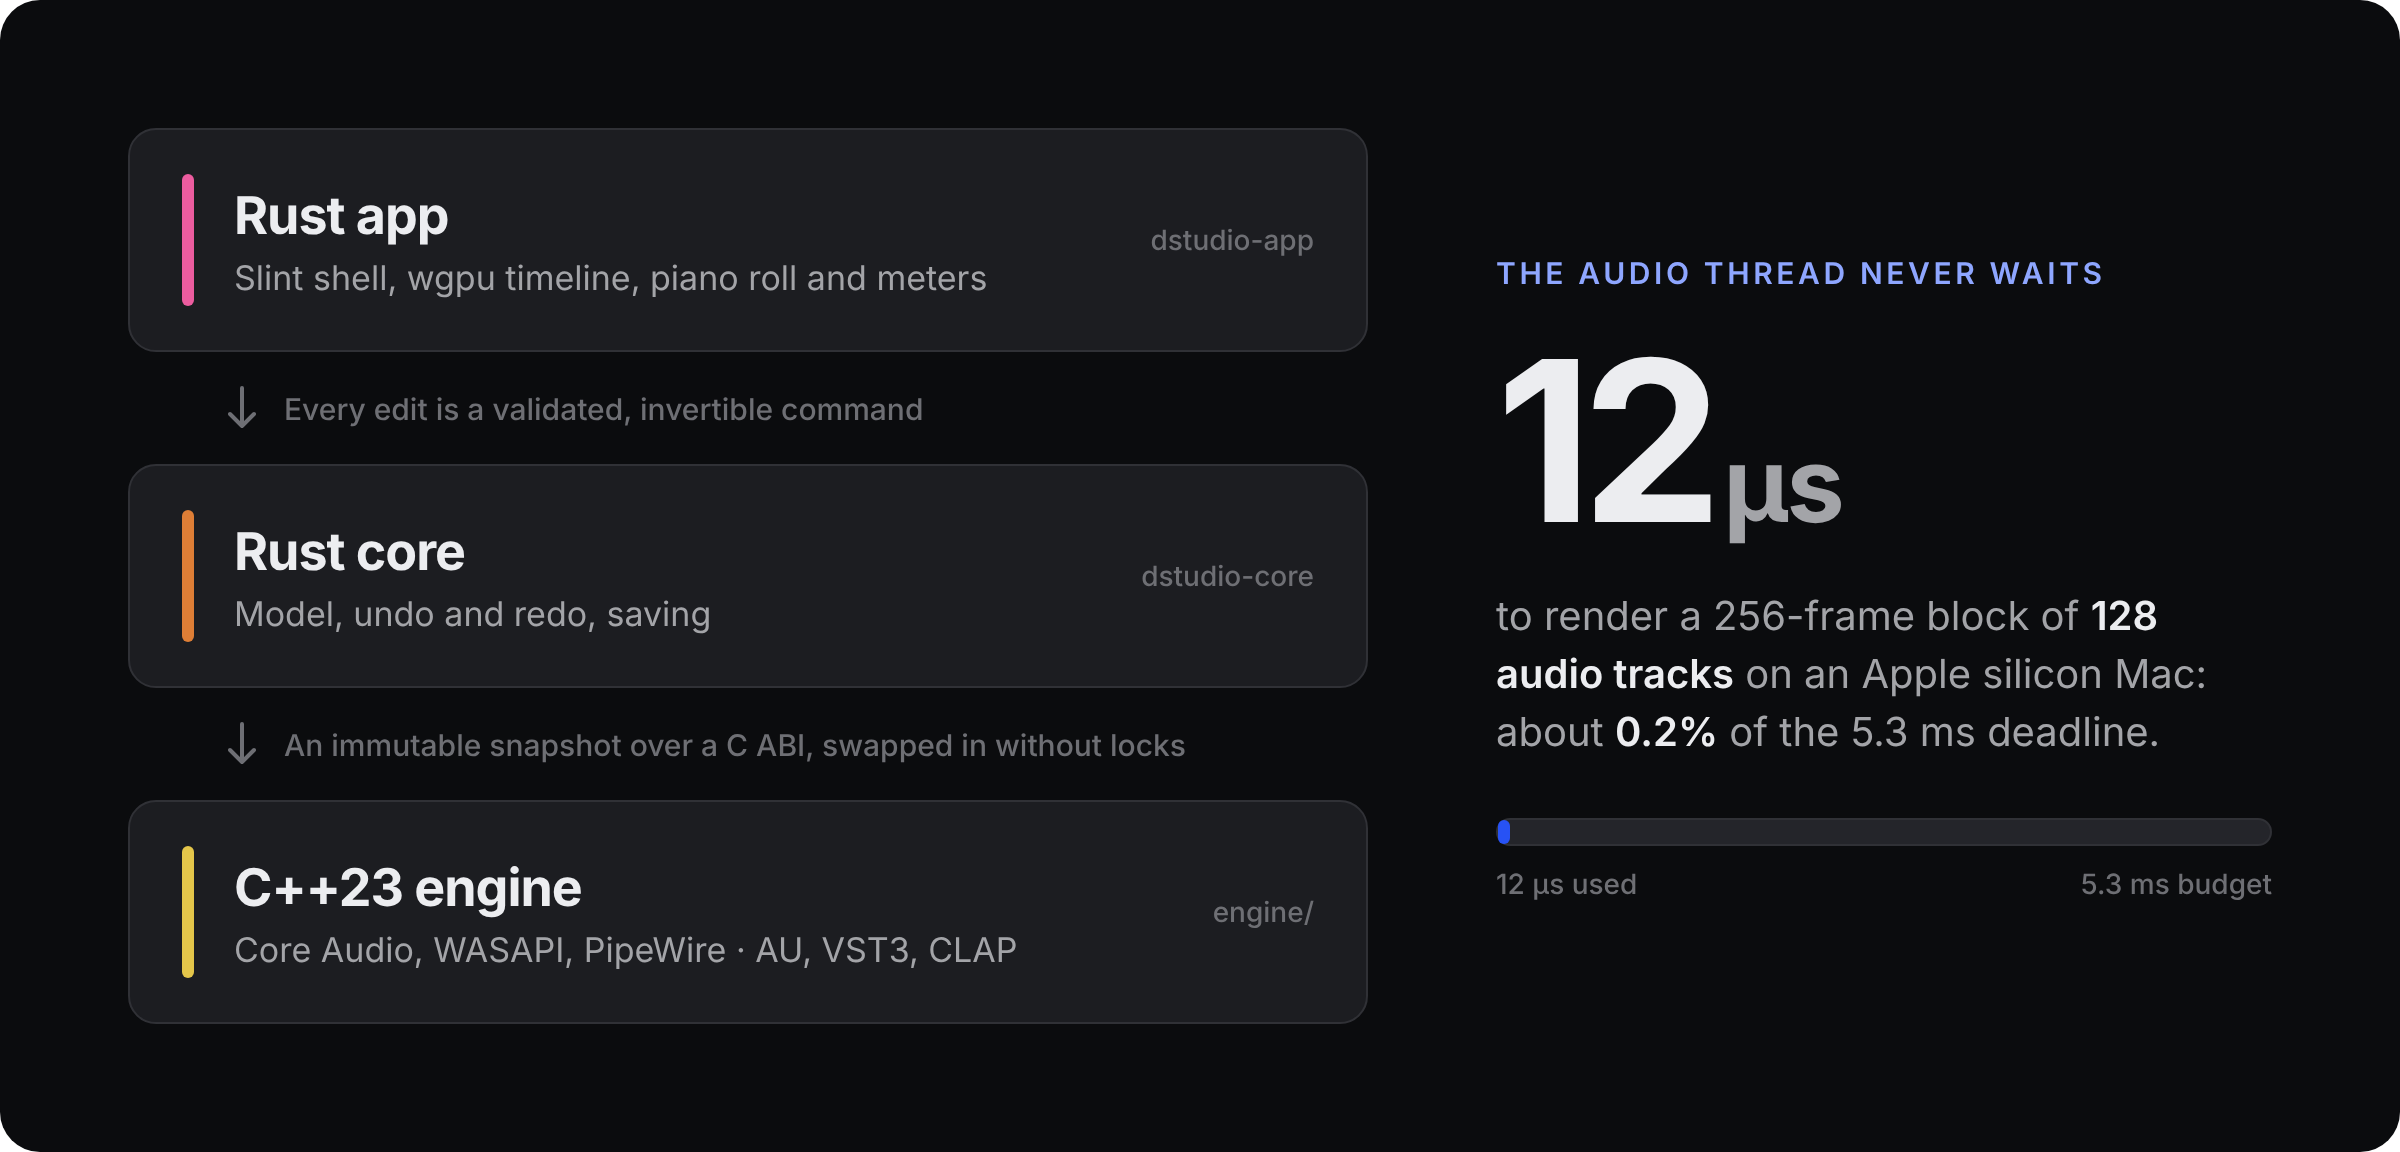
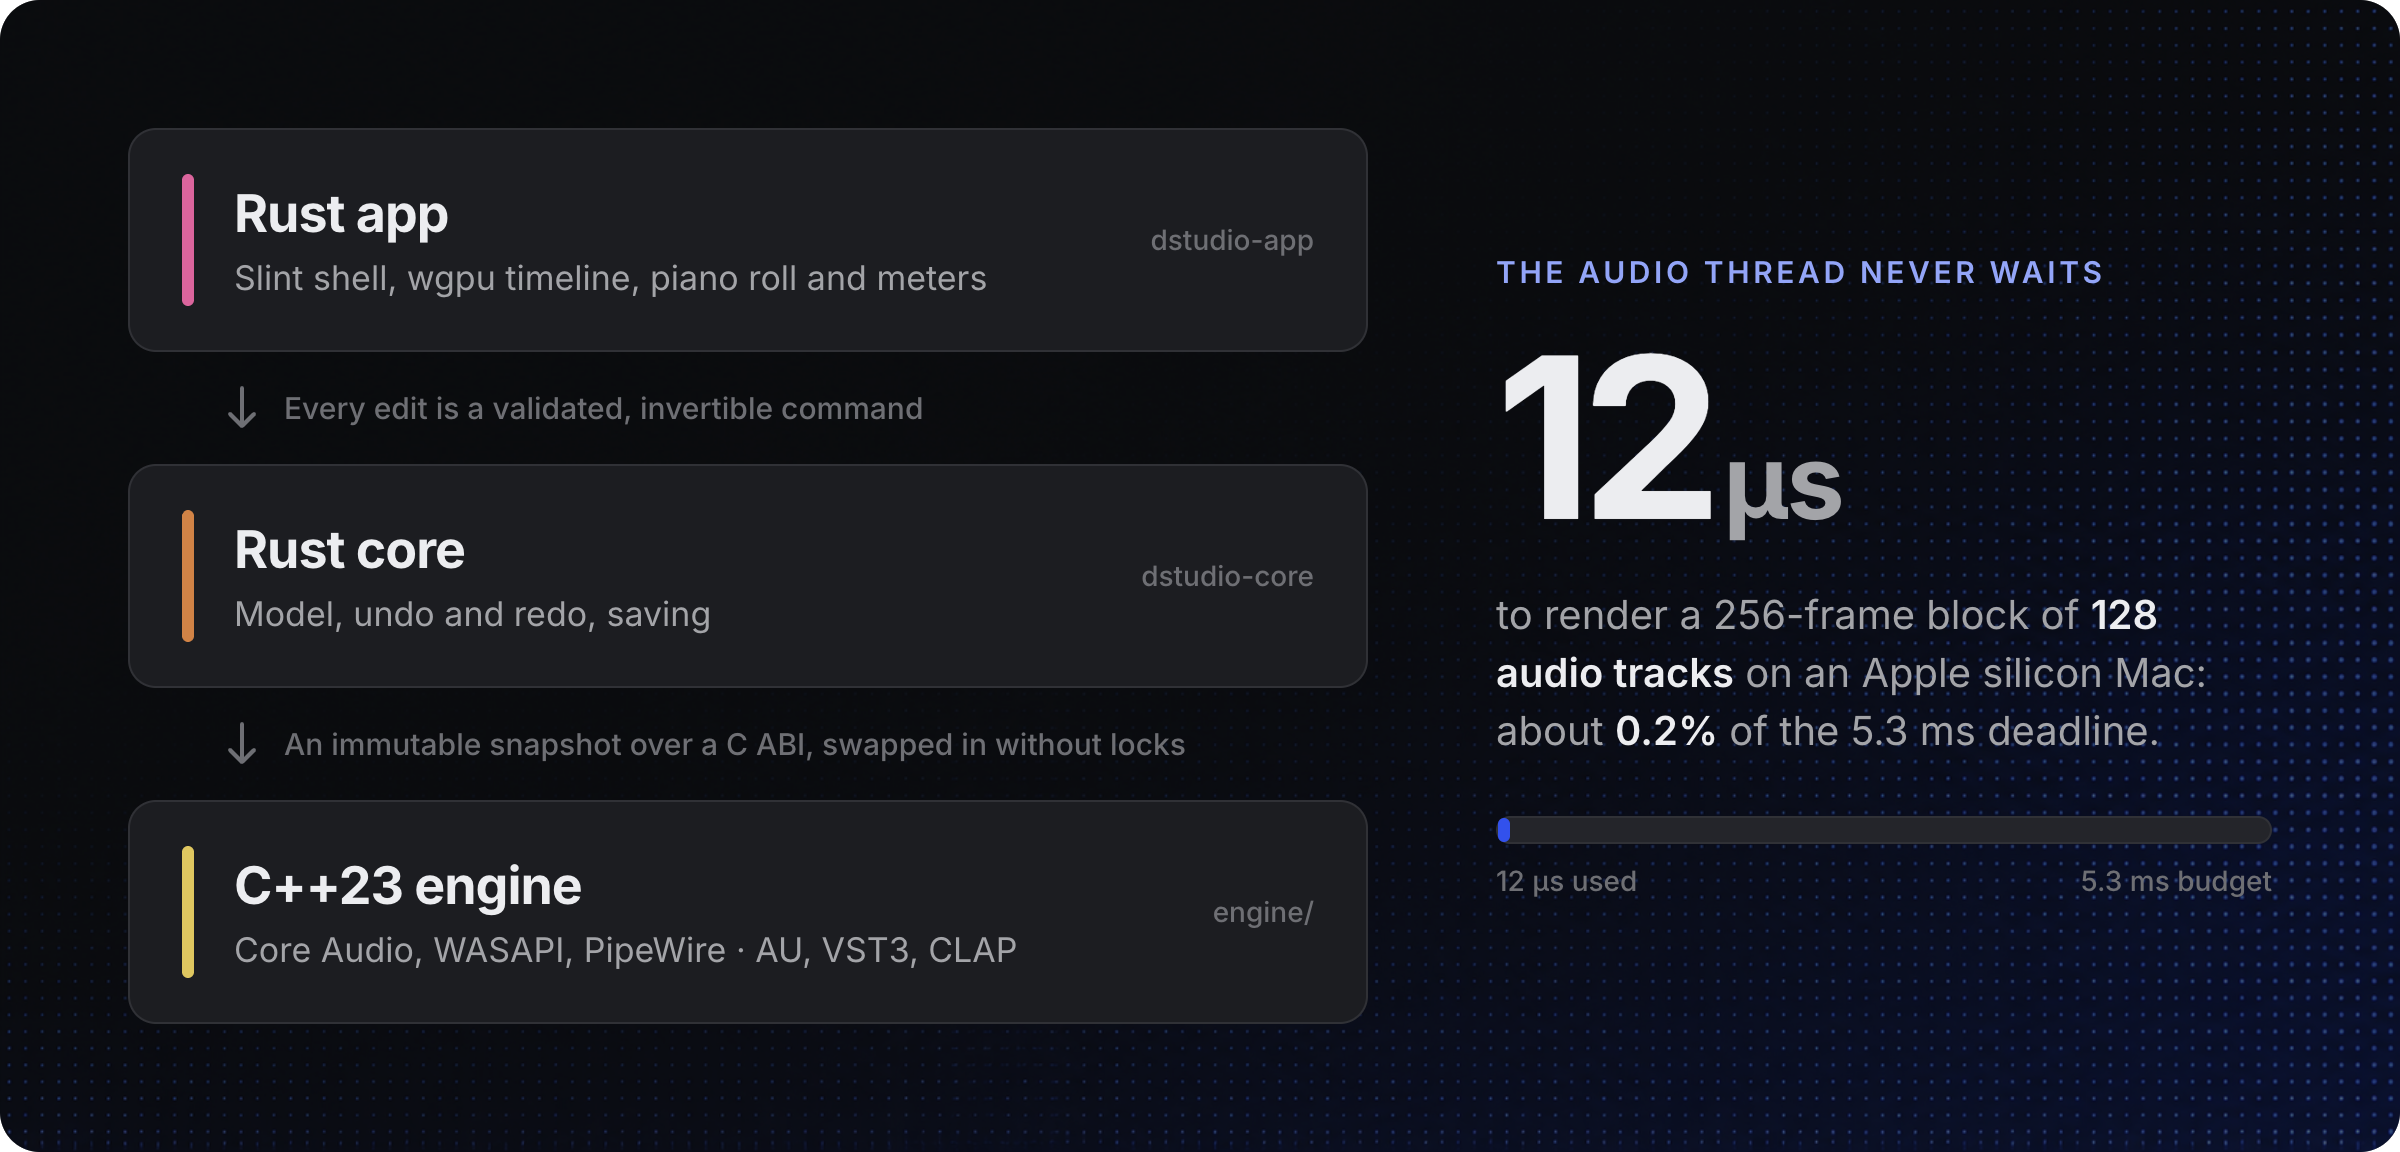
Add Fine Signal texture to public artwork

diff --git a/docs/art/art.css b/docs/art/art.css
@@ -66,3 +66,18 @@ body { font-family: "Inter", system-ui, sans-serif; color: var(--text); -webkit-
 .feature h3 { margin: 0; font-size: 46px; line-height: 1.1; font-weight: 700; letter-spacing: -0.028em; }
 .feature p { margin: 0; max-width: 920px; font-size: 22px; line-height: 1.45; color: var(--text-2); }
 .feature .crop { position: absolute; left: 64px; right: 64px; top: 266px; height: 392px; }
+
+/* Fine Signal: a shared raster material for public artwork. App views stay untouched. */
+.art { isolation: isolate; }
+.art::before {
+  content: "";
+  position: absolute;
+  inset: 0;
+  z-index: -1;
+  background: url("textures/fine-signal.png") right center / cover no-repeat;
+  opacity: 0.85;
+  pointer-events: none;
+}
+.art.feature::before,
+.art.arch::before { opacity: 0.45; }
+.bars { opacity: 0.12; }

diff --git a/docs/art/README.md b/docs/art/README.md
@@ -40,3 +40,13 @@ magick /tmp/automation.png -gravity north -chop 0x88 docs/art/shots/automation.p
 `--zoom 85` makes the interface scale exactly 2, so the layout matches a 1440×820 window. For the other shots, swap the
 `--state` and file names from the table. When a view changes visibly, render its shot again, crop it into
 `docs/art/shots/` the same way and re-run `render.mjs`.
+
+## Fine Signal material
+
+Public artwork uses `textures/fine-signal.png`, the approved fine blue dot treatment, behind
+its headings and frames. `art.css` applies it more quietly to the information-heavy feature and
+architecture panels. This is a marketing texture: the app screenshots in `shots/` are not edited,
+and no desktop interface styles are changed. The original waveform mark is also unchanged.
+
+The texture is a project-specific generated bitmap. Its exact generation prompt is in
+`textures/fine-signal-prompt.txt`. Website AVIF/WebP variants are derived from this same source.

diff --git a/PROGRESS.md b/PROGRESS.md
@@ -583,3 +583,11 @@ see `.github/workflows/ci.yml`). Platform status: `engine/README.md` › Platfor
   so switching keeps delay compensation) and `SE_AUTO_TRIM/WIDTH/MONO` (per sample, replace the strip settings).
   Tests: four engine tests in `test_automation.cpp`, core `switch_lanes_*`, app `automation::tests` (units, picker,
   right-click menus, switches and strip controls following lanes).
+
+### 2026-11-13: Fine Signal public artwork
+
+Applied the selected fine blue dot material to the public README, feature and sharing artwork.
+The source texture and exact generation prompt live in `docs/art/textures/`; the HTML renderer
+uses it at lower strength behind feature and architecture cards. App source, screenshots,
+installation identities and settings are unchanged. The website uses compressed versions of
+the same material in its own repository.
